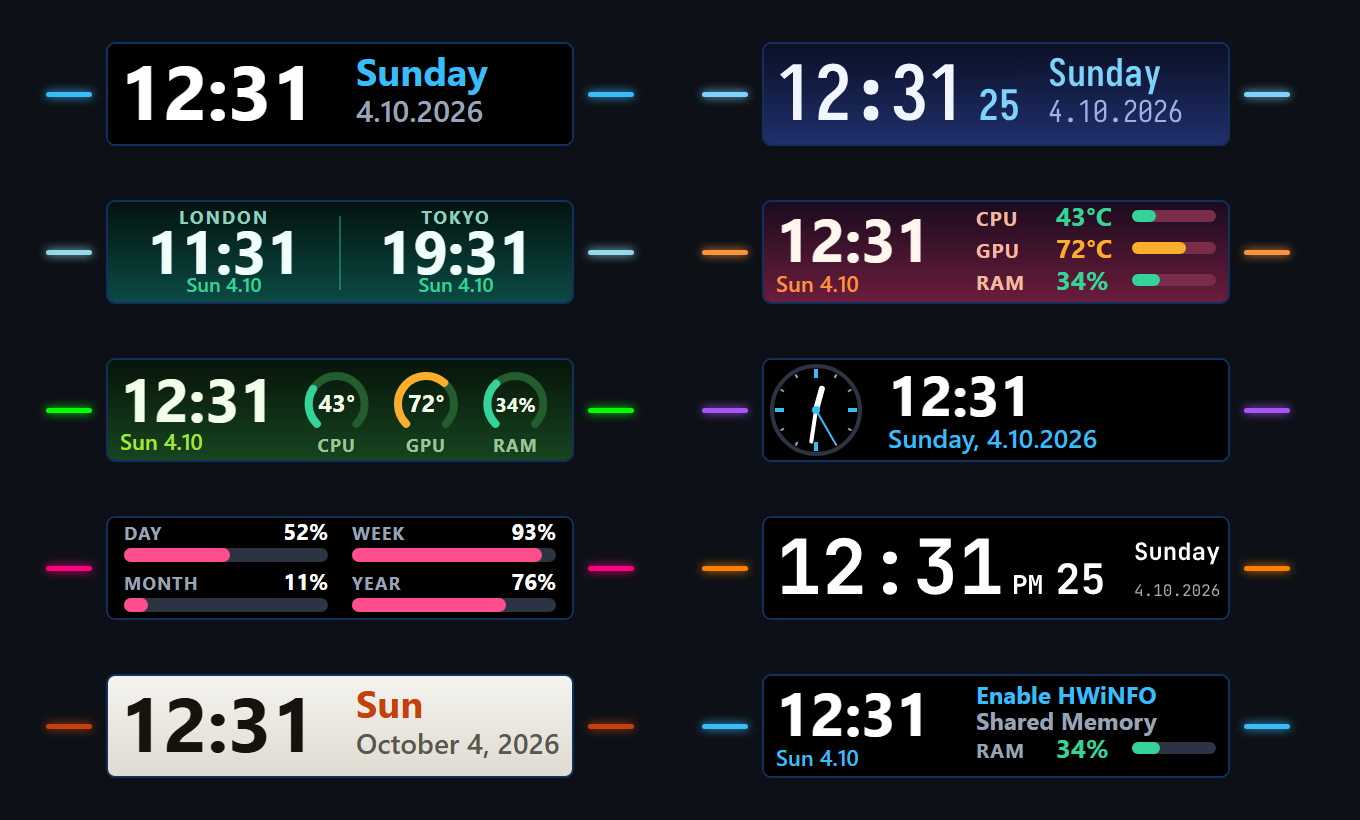
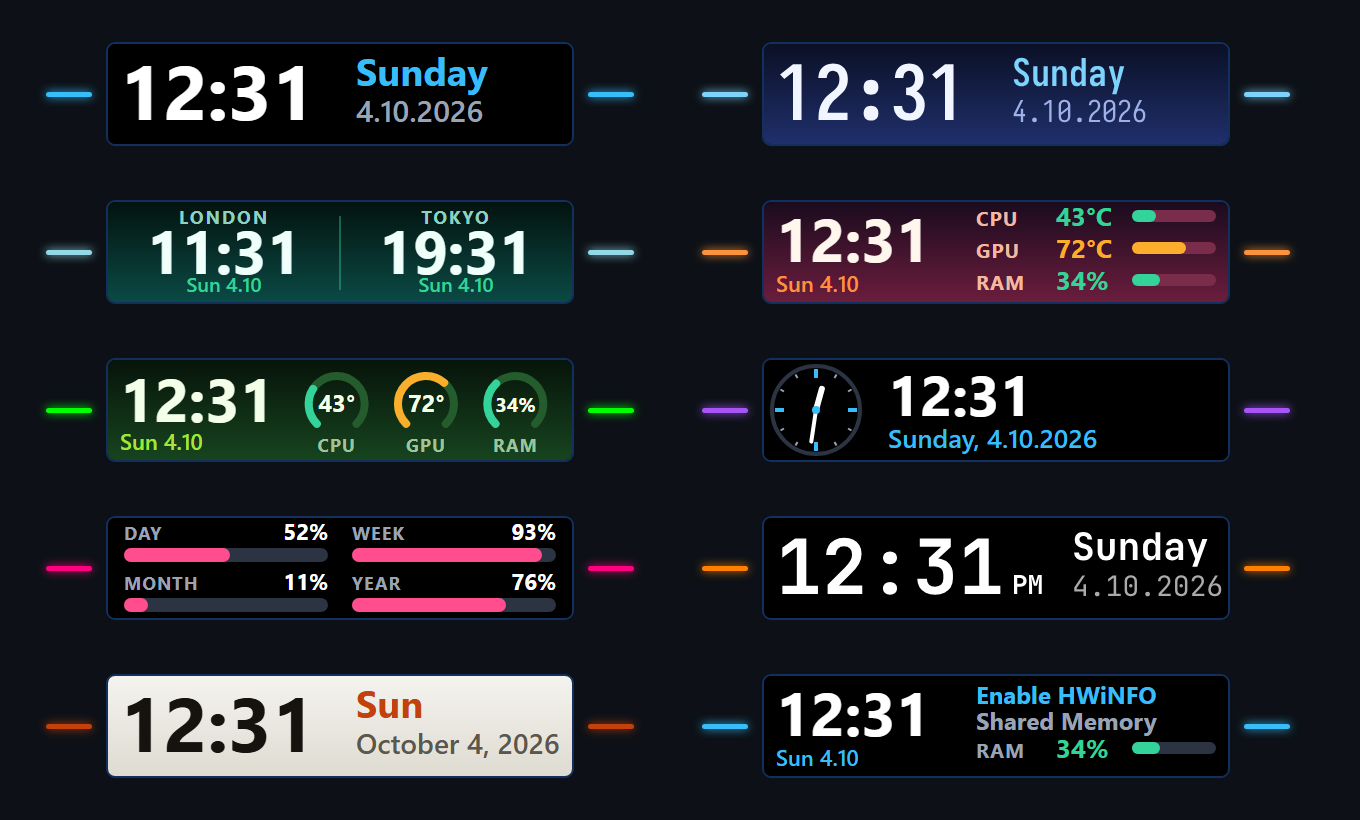
Remove the seconds option; system fonts use a single family name

Changed region(s): [[0.7103, 0.061, 0.8647, 0.1524], [0.7721, 0.6402, 0.8956, 0.7317]]

diff --git a/com.elemental.infobar.sdPlugin/ui/infobar.html b/com.elemental.infobar.sdPlugin/ui/infobar.html
@@ -16,17 +16,17 @@
 		SDPIComponents.i18n.locales = {
 			en: {
 				panelLang: "Panel language", mode: "Mode", modeClock: "Clock", modeDual: "Two time zones", modeStats: "Clock + readings", modeDash: "Dashboard (gauges)", modeAnalog: "Analog clock", modeProgress: "Progress (day / week / month / year)",
-				theme: "Theme", font: "Font", refresh: "Refresh rate", rAuto: "Automatic", r1: "1 per second", r2: "2 per second", r5: "5 per second", r10: "10 per second", r15: "15 per second", r20: "20 per second", sensorEvery: "Readings update", e1: "every 1 s", e2: "every 2 s", e5: "every 5 s", e10: "every 10 s", accent: "Accent color (weekday, seconds, bars)", ledPreview: "Light preview", accentTheme: "From theme", accentCustom: "Custom", accentPick: "Pick a color", led: "Side lights", ledAuto: "Automatic (default)", ledCustom: "Custom color", ledPick: "Light color", lc_pink: "Pink", lc_red: "Red", lc_orange: "Orange", lc_yellow: "Yellow", lc_lime: "Lime", lc_green: "Green", lc_spring: "Mint", lc_cyan: "Cyan", lc_azure: "Azure", lc_blue: "Blue", lc_violet: "Violet", lc_magenta: "Magenta", ledRainbow: "Rainbow", ledPulse: "Pulse (breathing)", ledTemp: "By CPU / GPU temperature", ledHours: "By time of day", ledWeekday: "By weekday", ledAlert: "Red flashing when too hot", ledNote: "The side lights take their color from a thin line along the bottom edge of the infobar. This changes only the lights, no other color. The lights cannot be switched off, so only 12 fully saturated colors are offered: white, gray, black and pale shades are ignored by the lights.",
+				theme: "Theme", font: "Font", refresh: "Refresh rate", rAuto: "Automatic", r1: "1 per second", r2: "2 per second", r5: "5 per second", r10: "10 per second", r15: "15 per second", r20: "20 per second", sensorEvery: "Readings update", e1: "every 1 s", e2: "every 2 s", e5: "every 5 s", e10: "every 10 s", accent: "Accent color (weekday, bars)", ledPreview: "Light preview", accentTheme: "From theme", accentCustom: "Custom", accentPick: "Pick a color", led: "Side lights", ledAuto: "Automatic (default)", ledCustom: "Custom color", ledPick: "Light color", lc_pink: "Pink", lc_red: "Red", lc_orange: "Orange", lc_yellow: "Yellow", lc_lime: "Lime", lc_green: "Green", lc_spring: "Mint", lc_cyan: "Cyan", lc_azure: "Azure", lc_blue: "Blue", lc_violet: "Violet", lc_magenta: "Magenta", ledRainbow: "Rainbow", ledPulse: "Pulse (breathing)", ledTemp: "By CPU / GPU temperature", ledHours: "By time of day", ledWeekday: "By weekday", ledAlert: "Red flashing when too hot", ledNote: "The side lights take their color from a thin line along the bottom edge of the infobar. This changes only the lights, no other color. The lights cannot be switched off, so only 12 fully saturated colors are offered: white, gray, black and pale shades are ignored by the lights.",
 				dateLang: "Date language", langSystem: "System language", tz: "Time zone", tzLocal: "Local (system)", tzCustom: "Other (type below)…", customTz: "Time zone name", tz2: "Second time zone", customTz2: "Second zone name", label1: "Left label", label2: "Right label", labelHint: "Optional – city by default",
-				hour: "Hours", h24: "24-hour", h12: "12-hour (AM/PM)", seconds: "Seconds", showSeconds: "Show seconds", weekday: "Weekday", wLong: "Long (Sunday)", wShort: "Short (Sun)", wNone: "Hide", dateFmt: "Date format", dMid: "4 Oct 2026 (month name)", dLong: "4 October 2026 (full month)", dDm: "4 October (no year)", caps: "Names", capsOpt: "Capitalize weekday and month",
+				hour: "Hours", h24: "24-hour", h12: "12-hour (AM/PM)", weekday: "Weekday", wLong: "Long (Sunday)", wShort: "Short (Sun)", wNone: "Hide", dateFmt: "Date format", dMid: "4 Oct 2026 (month name)", dLong: "4 October 2026 (full month)", dDm: "4 October (no year)", caps: "Names", capsOpt: "Capitalize weekday and month",
 				hwinfo: "HWiNFO", hwinfoNote: "CPU and GPU readings come from HWiNFO: enable Shared Memory Support in its Settings. The free version turns it off after ~12 h – just enable it again.", show: "Show", showCpu: "CPU temperature", showGpu: "GPU temperature", showRam: "RAM usage", unit: "Unit",
 				progress: "Show", pDay: "Day", pWeek: "Week", pMonth: "Month", pYear: "Year",
 			},
 			pl: {
 				panelLang: "Język panelu", mode: "Tryb", modeClock: "Zegar", modeDual: "Dwie strefy czasowe", modeStats: "Zegar + odczyty", modeDash: "Pulpit (wskaźniki)", modeAnalog: "Zegar analogowy", modeProgress: "Postęp (dzień / tydzień / miesiąc / rok)",
-				theme: "Motyw", font: "Czcionka", refresh: "Częstotliwość odświeżania", rAuto: "Automatyczna", r1: "1 na sekundę", r2: "2 na sekundę", r5: "5 na sekundę", r10: "10 na sekundę", r15: "15 na sekundę", r20: "20 na sekundę", sensorEvery: "Odświeżanie odczytów", e1: "co 1 s", e2: "co 2 s", e5: "co 5 s", e10: "co 10 s", accent: "Kolor akcentu (dzień tygodnia, sekundy, paski)", ledPreview: "Podgląd diod", accentTheme: "Z motywu", accentCustom: "Własny", accentPick: "Wybierz kolor", led: "Boczne diody", ledAuto: "Automatycznie (domyślnie)", ledCustom: "Własny kolor", ledPick: "Kolor diod", lc_pink: "Różowy", lc_red: "Czerwony", lc_orange: "Pomarańczowy", lc_yellow: "Żółty", lc_lime: "Limonkowy", lc_green: "Zielony", lc_spring: "Miętowy", lc_cyan: "Cyjan", lc_azure: "Lazurowy", lc_blue: "Niebieski", lc_violet: "Fioletowy", lc_magenta: "Magenta", ledRainbow: "Tęcza", ledPulse: "Pulsowanie (oddech)", ledTemp: "Wg temperatury CPU / GPU", ledHours: "Wg pory dnia", ledWeekday: "Wg dnia tygodnia", ledAlert: "Czerwone miganie przy przegrzaniu", ledNote: "Boczne diody biorą kolor z cienkiej linii przy dolnej krawędzi paska. Zmienia to tylko diody, żaden inny kolor. Diod nie da się wyłączyć, dlatego do wyboru jest 12 w pełni nasyconych kolorów: biały, szary, czarny i blade odcienie są przez diody ignorowane.",
+				theme: "Motyw", font: "Czcionka", refresh: "Częstotliwość odświeżania", rAuto: "Automatyczna", r1: "1 na sekundę", r2: "2 na sekundę", r5: "5 na sekundę", r10: "10 na sekundę", r15: "15 na sekundę", r20: "20 na sekundę", sensorEvery: "Odświeżanie odczytów", e1: "co 1 s", e2: "co 2 s", e5: "co 5 s", e10: "co 10 s", accent: "Kolor akcentu (dzień tygodnia, paski)", ledPreview: "Podgląd diod", accentTheme: "Z motywu", accentCustom: "Własny", accentPick: "Wybierz kolor", led: "Boczne diody", ledAuto: "Automatycznie (domyślnie)", ledCustom: "Własny kolor", ledPick: "Kolor diod", lc_pink: "Różowy", lc_red: "Czerwony", lc_orange: "Pomarańczowy", lc_yellow: "Żółty", lc_lime: "Limonkowy", lc_green: "Zielony", lc_spring: "Miętowy", lc_cyan: "Cyjan", lc_azure: "Lazurowy", lc_blue: "Niebieski", lc_violet: "Fioletowy", lc_magenta: "Magenta", ledRainbow: "Tęcza", ledPulse: "Pulsowanie (oddech)", ledTemp: "Wg temperatury CPU / GPU", ledHours: "Wg pory dnia", ledWeekday: "Wg dnia tygodnia", ledAlert: "Czerwone miganie przy przegrzaniu", ledNote: "Boczne diody biorą kolor z cienkiej linii przy dolnej krawędzi paska. Zmienia to tylko diody, żaden inny kolor. Diod nie da się wyłączyć, dlatego do wyboru jest 12 w pełni nasyconych kolorów: biały, szary, czarny i blade odcienie są przez diody ignorowane.",
 				dateLang: "Język daty", langSystem: "Język systemu", tz: "Strefa czasowa", tzLocal: "Lokalna (systemowa)", tzCustom: "Inna (wpisz poniżej)…", customTz: "Nazwa strefy", tz2: "Druga strefa czasowa", customTz2: "Nazwa drugiej strefy", label1: "Podpis po lewej", label2: "Podpis po prawej", labelHint: "Opcjonalnie – domyślnie miasto",
-				hour: "Godziny", h24: "24-godzinny", h12: "12-godzinny (AM/PM)", seconds: "Sekundy", showSeconds: "Pokaż sekundy", weekday: "Dzień tygodnia", wLong: "Pełny (niedziela)", wShort: "Skrót (niedz.)", wNone: "Ukryj", dateFmt: "Format daty", dMid: "4 paź 2026 (nazwa miesiąca)", dLong: "4 października 2026 (pełna nazwa)", dDm: "4 października (bez roku)", caps: "Nazwy", capsOpt: "Wielka litera w dniu tygodnia i miesiącu",
+				hour: "Godziny", h24: "24-godzinny", h12: "12-godzinny (AM/PM)", weekday: "Dzień tygodnia", wLong: "Pełny (niedziela)", wShort: "Skrót (niedz.)", wNone: "Ukryj", dateFmt: "Format daty", dMid: "4 paź 2026 (nazwa miesiąca)", dLong: "4 października 2026 (pełna nazwa)", dDm: "4 października (bez roku)", caps: "Nazwy", capsOpt: "Wielka litera w dniu tygodnia i miesiącu",
 				hwinfo: "HWiNFO", hwinfoNote: "Odczyty CPU i GPU pochodzą z HWiNFO: włącz Obsługę pamięci współdzielonej w jego ustawieniach. Darmowa wersja wyłącza ją po ok. 12 h – wystarczy włączyć ją ponownie.", show: "Pokaż", showCpu: "Temperaturę CPU", showGpu: "Temperaturę GPU", showRam: "Zajętość RAM", unit: "Jednostka",
 				progress: "Pokaż", pDay: "Dzień", pWeek: "Tydzień", pMonth: "Miesiąc", pYear: "Rok",
 			},
@@ -220,9 +220,6 @@
 			<option value="24">__MSG_h24__</option>
 			<option value="12">__MSG_h12__</option>
 		</sdpi-select>
-	</sdpi-item>
-	<sdpi-item label="__MSG_seconds__" data-modes="clock analog">
-		<sdpi-checkbox setting="showSeconds" label="__MSG_showSeconds__"></sdpi-checkbox>
 	</sdpi-item>
 	<sdpi-item label="__MSG_weekday__" data-modes="clock analog">
 		<sdpi-select setting="weekdayStyle" default="long">

diff --git a/src/modes.ts b/src/modes.ts
@@ -20,13 +20,13 @@ export type Ctx = { now: Date; s: Settings; t: Theme; accent: string; sensors: S
 /** Szerokości znaków czcionek systemowych (jednostki 1000/em, tekst zwykły i pogrubiony) – patrz scripts/gen-metrics.mjs. */
 const M = METRICS as Record<string, { regular: Record<string, number>; bold: Record<string, number> }>;
 
-/** Czcionki systemowe z listy w panelu: stos CSS (kolejne nazwy to zapasowe). */
+/** Czcionki systemowe z listy w panelu: stos CSS (jedna nazwa, bez listy zapasowych: aplikacja Stream Deck źle znosi listy w font-family). */
 export const FONTS: Record<string, string> = {
-	"Segoe UI": "'Segoe UI', Arial, sans-serif",
-	Arial: "Arial, 'Segoe UI', sans-serif",
-	Bahnschrift: "Bahnschrift, 'Segoe UI', sans-serif",
-	Tahoma: "Tahoma, 'Segoe UI', sans-serif",
-	"Trebuchet MS": "'Trebuchet MS', 'Segoe UI', sans-serif",
+	"Segoe UI": "Segoe UI",
+	Arial: "Arial",
+	Bahnschrift: "Bahnschrift",
+	Tahoma: "Tahoma",
+	"Trebuchet MS": "Trebuchet MS",
 };
 const MONO_CSS = "'Cascadia Mono', Consolas, 'Courier New', monospace"; // tekst, którego nie ma w dołączonej czcionce
 
@@ -140,7 +140,6 @@ function clockMode(c: Ctx): string {
 	const size = 38;
 	const segs: Seg[] = [{ text: p.time, size, fill: t.fg, weight: 700, gap: 0 }];
 	if (p.ampm) segs.push({ text: p.ampm, size: 13, fill: accent, weight: 700, gap: 4 });
-	if (s.showSeconds === true) segs.push({ text: p.sec, size: 21, fill: accent, weight: 700, gap: 6 });
 	const r = run(6, 38, segs);
 	let out = r.svg;
 	const after = r.end;
@@ -258,7 +257,6 @@ function analogMode(c: Ctx): string {
 	const sec = p.z.s + (c.smooth ? c.now.getMilliseconds() / 1000 : 0); // płynna wskazówka przy wyższym odświeżaniu
 	const hand = (deg: number, len: number, w: number, col: string) => `<line x1="${cx}" y1="${cy}" x2="${pol(deg, len).split(" ")[0]}" y2="${pol(deg, len).split(" ")[1]}" stroke="${col}" stroke-width="${w}" stroke-linecap="round"/>`;
 	out += hand(((h % 12) + mi / 60) * 30, 11, 3, t.fg) + hand((mi + sec / 60) * 6, 16, 2, t.fg);
-	if (s.showSeconds === true) out += hand(sec * 6, 18, 1, accent);
 	out += `<circle cx="${cx}" cy="${cy}" r="2" fill="${accent}"/>`;
 	const big = p.ampm ? `${p.time} ${p.ampm}` : p.time;
 	out += tx(62, 28, big, fit(big, 160, 28), t.fg, 700);

diff --git a/src/clock.ts b/src/clock.ts
@@ -47,7 +47,6 @@ const p2 = (n: number) => String(n).padStart(2, "0");
 
 export type ClockParts = {
 	time: string;
-	sec: string;
 	ampm: string;
 	weekday: string;
 	weekdayShort: string;
@@ -86,7 +85,6 @@ export function clockParts(now: Date, s: Settings, tz: string): ClockParts {
 
 	return {
 		time,
-		sec: p2(z.s),
 		ampm,
 		weekday: s.weekdayStyle === "none" ? "" : name(s.weekdayStyle === "short" ? "short" : "long"),
 		weekdayShort: name("short"),

diff --git a/src/types.ts b/src/types.ts
@@ -16,7 +16,6 @@ export type Settings = {
 	label1?: string;
 	label2?: string;
 	hour12?: "24" | "12";
-	showSeconds?: boolean;
 	weekdayStyle?: "long" | "short" | "none";
 	dateFormat?: string;
 	capitalize?: boolean;

diff --git a/README.md b/README.md
@@ -4,7 +4,7 @@ Turns the infobar of the **Stream Deck Neo** (the small screen between the two t
 
 ![Elemental Infobar examples](docs/showcase.png)
 
-*Example infobars with sample values: clock, clock with seconds in a built-in font, two time zones, clock with readings, dashboard, analog clock, progress, 12-hour clock in English, a light theme, and the message shown when HWiNFO Shared Memory is off. The colored bars on both sides stand for the side lights.*
+*Example infobars with sample values: clock, clock in a built-in font, two time zones, clock with readings, dashboard, analog clock, progress, 12-hour clock in English, a light theme, and the message shown when HWiNFO Shared Memory is off. The colored bars on both sides stand for the side lights.*
 
 ## Requirements
 
@@ -33,21 +33,21 @@ Messages shown in the readings modes instead of a value:
 
 | Mode | What it shows |
 | --- | --- |
-| Clock | Big time, weekday and date; optional seconds |
+| Clock | Big time, weekday and date |
 | Two time zones | Two clocks side by side with city labels |
 | Clock + readings | Clock plus CPU / GPU temperature and RAM usage with small bars |
 | Dashboard | Clock plus gauge rings for CPU, GPU and RAM |
-| Analog clock | Analog face with hour, minute and (optional) second hand, plus digital time and date |
+| Analog clock | Analog face with hour and minute hands, plus digital time and date |
 | Progress | How far through the day / week / month / year you are |
 
 ## Options
 
 - **Date language**: system language, English, Polish, German, French, Spanish, Italian, Czech, Portuguese, Dutch or Ukrainian (weekday and month names)
-- **Time zone** from a list or any IANA name (e.g. `Europe/Vienna`); 24 h or 12 h; seconds; long / short / hidden weekday; eight date formats; capitalization of names
+- **Time zone** from a list or any IANA name (e.g. `Europe/Vienna`); 24 h or 12 h; long / short / hidden weekday; eight date formats; capitalization of names
 - **Themes**: Black, Midnight, Aurora, Sunset, Forest, Mono, Paper, plus your own accent color
 - **Fonts**: Segoe UI, Arial, Bahnschrift, Tahoma and Trebuchet MS (these all render at a similar size), and two monospaced fonts built into the plugin that need no installation – JetBrains Mono and Iosevka. A built-in font is used only for text it has all the glyphs for; anything else is drawn in a system font.
 - **Side lights** (the two lights next to the infobar): automatic, custom color, rainbow, pulsing, by CPU / GPU temperature, by time of day, by weekday, or flashing red when something runs too hot. The settings panel offers a palette of 12 fully saturated colors, the only ones the lights accept (picking one switches on the custom color), and a live preview of both lights. The plugin sets the lights through the color of a thin 2 px line along the bottom edge of the picture (thinner or darker lines do not work; you only see it in the app preview, not on the device), so nothing else on the infobar changes color. The lights cannot be switched off, and white, gray, black and pale shades are ignored, which is why only saturated colors are offered.
-- **Refresh rate**: from 1 to 20 times per second (a smooth sweeping second hand on the analog clock); readings can be updated every 1, 2, 5 or 10 seconds
+- **Refresh rate**: from 1 to 20 times per second (smoother movement of the analog hands); readings can be updated every 1, 2, 5 or 10 seconds
 - Readings: choose which of CPU / GPU / RAM to show and °C / °F
 - Language of the settings panel: English or Polish (Auto follows Stream Deck, or choose it yourself)
 
